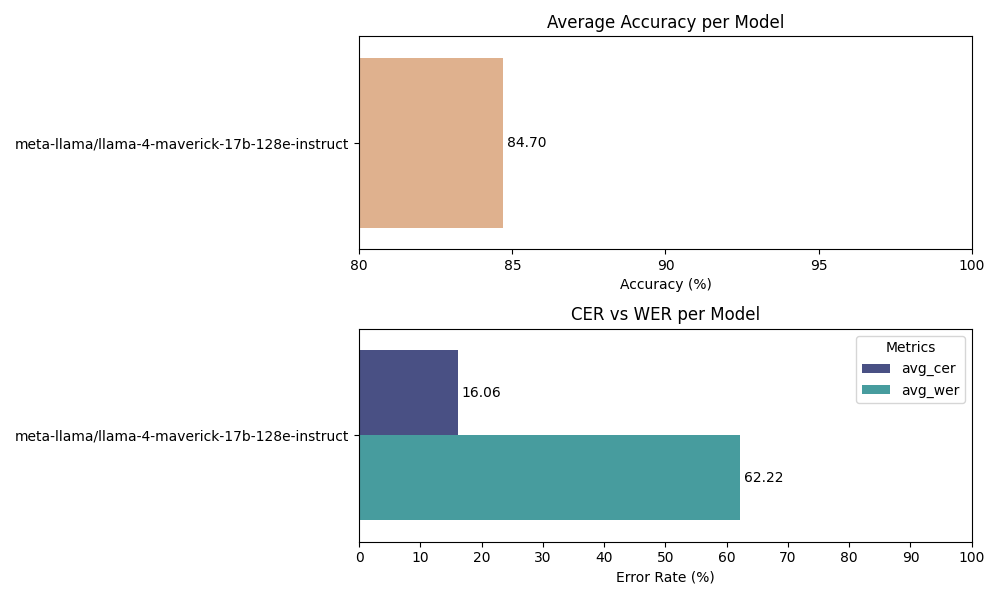
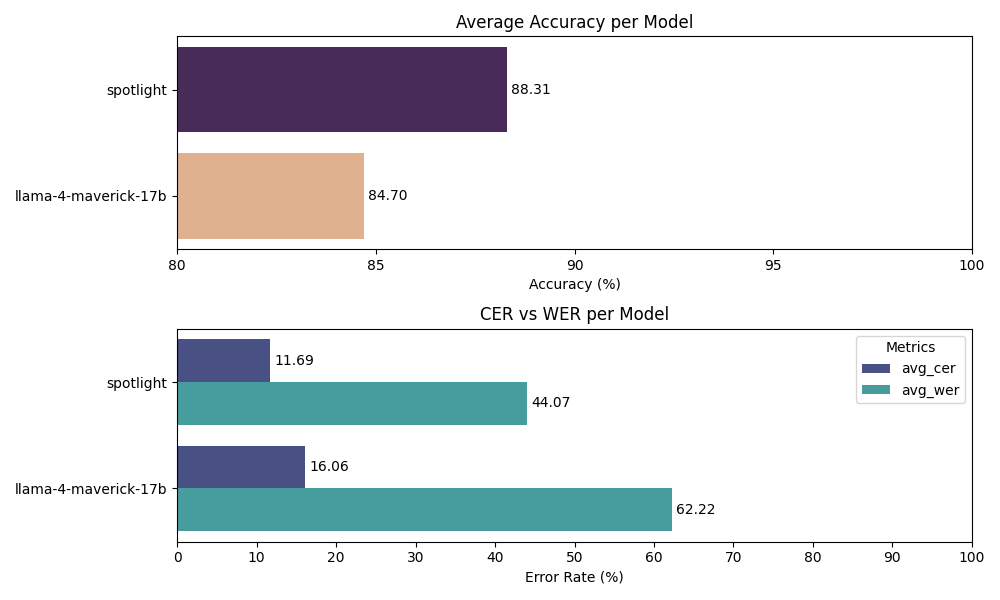
models id conflict fix

diff --git a/run_process.py b/run_process.py
@@ -1,4 +1,4 @@
-from models.model_utils import to_eval
+from models.model_utils import to_eval, get_model_display_name
 from models.agent import create_agent, create_image_obj
 from evaluation.metrics import get_diff, get_metrics
 from evaluation.graph import create_graph
@@ -55,7 +55,6 @@ async def run_model(agent, model, executor, image_path: str):
     wer, cer = get_metrics(gt, response.content)
     
     # Print results for each image
-    from models.model_utils import get_model_display_name
     display_name = get_model_display_name(model.id)
     console.print(Text(f"\n(🤖) {display_name}", style="bold blue"))
     pprint_run_response(response)
@@ -68,19 +67,17 @@ async def run_model(agent, model, executor, image_path: str):
     
     to_json(model, gt, response, wer, cer, accuracy, exec_time, image_path)
     
-    from models.model_utils import get_model_display_name
     return (get_model_display_name(model.id), wer, cer, accuracy, exec_time)
     
 
 async def run_all(image_paths: list[str], source: str):
     """Run all models on a list of images and calculate average metrics."""
     # Create all agents once at startup
-    from models.model_utils import get_model_display_name
     agents = {get_model_display_name(model.id): create_agent(model) for model in to_eval}
     
     # Initialize metrics tracking
     metrics = {
-        model.id: {
+        get_model_display_name(model.id): {
             'wer': [],
             'cer': [],
             'accuracy': [],
@@ -140,7 +137,12 @@ def select_images_with_priority(source: str, all_images: list[str], images_to_pr
     unscanned_images = []
     
     for img in all_images:
-        img_name = Path(img).stem
+        # Extract filename preserving double extension (e.g., "00001.bin" from "00001.bin.png")
+        img_path = Path(img)
+        if img_path.name.endswith('.png'):
+            img_name = img_path.name[:-4]  # Remove '.png' to get "00001.bin" or "00283.nrm"
+        else:
+            img_name = img_path.stem
         json_file = output_folder / f"{img_name}.json"
         
         if json_file.exists():
@@ -227,9 +229,9 @@ def main():
     except KeyboardInterrupt:
         console.print("\n❌ Benchmark interrupted by user.", style="bold red")
         return
-    except Exception as e:
-        console.print(f"❌ Unexpected error during benchmark: {e}", style="bold red")
-        return
+    # except Exception as e:
+    #     console.print(f"❌ Unexpected error during benchmark: {e}", style="bold red")
+    #     pass
 
 if __name__ == "__main__":
     main()

diff --git a/utils/save.py b/utils/save.py
@@ -23,11 +23,11 @@ def copy_image_for_web(image_path: str) -> bool:
         
         path = Path(image_path)
         
-        # Extract the base filename (e.g., "00001" from "00001.bin.png")
+        # Extract only the numeric part for web images (e.g., "00001" from "00001.bin.png")
         # Handle patterns like: 00001.bin.png, 00025.nrm.png, etc.
         filename_parts = path.name.split('.')
         if len(filename_parts) >= 3 and filename_parts[-1] == 'png':
-            base_filename = filename_parts[0]  # e.g., "00001"
+            base_filename = filename_parts[0]  # e.g., "00001" from "00001.bin.png"
         else:
             # Fallback: use stem (filename without final extension)
             base_filename = path.stem
@@ -94,10 +94,10 @@ def to_json(model, gt: str, response, wer: float, cer: float,
     
     path = Path(image_path)
     
-    # Extract the base filename for JSON (e.g., "00001" from "00001.bin.png")
-    filename_parts = path.name.split('.')
-    if len(filename_parts) >= 3 and filename_parts[-1] == 'png':
-        base_filename = filename_parts[0]  # e.g., "00001"
+    # Extract the filename with double extension preserved (e.g., "00001.bin" from "00001.bin.png")
+    # Remove only the final .png extension to preserve the double extension pattern
+    if path.name.endswith('.png'):
+        base_filename = path.name[:-4]  # Remove '.png' to get "00001.bin" or "00283.nrm"
     else:
         # Fallback: use stem (filename without final extension)
         base_filename = path.stem
